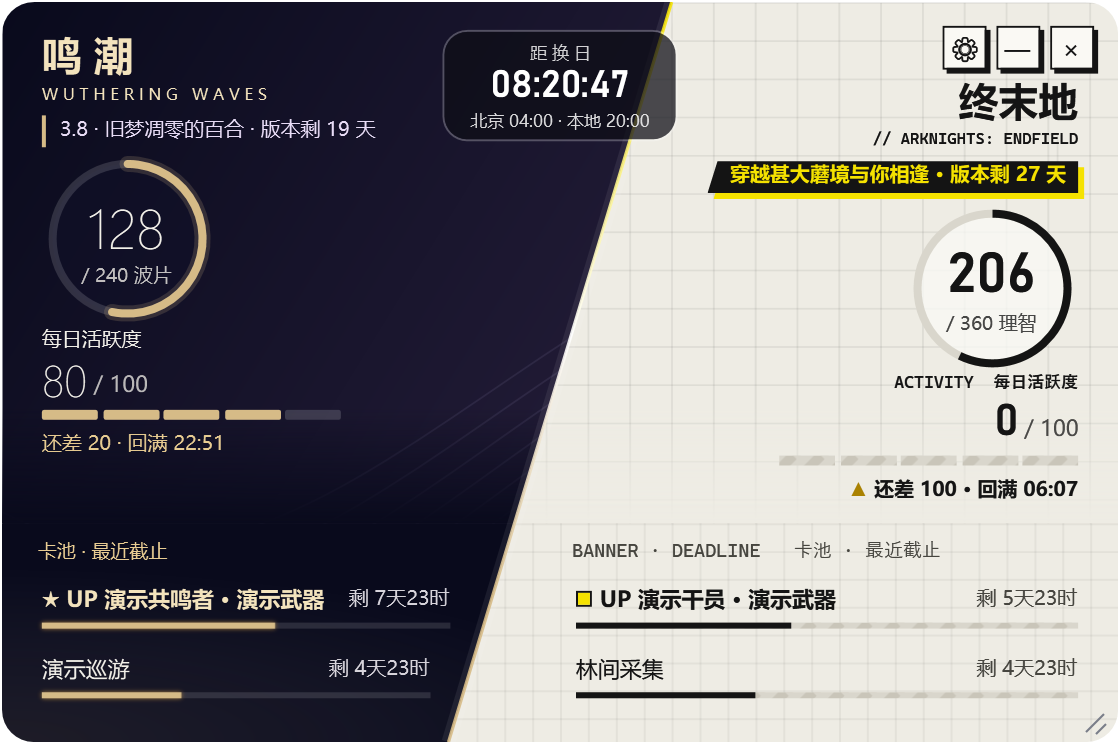
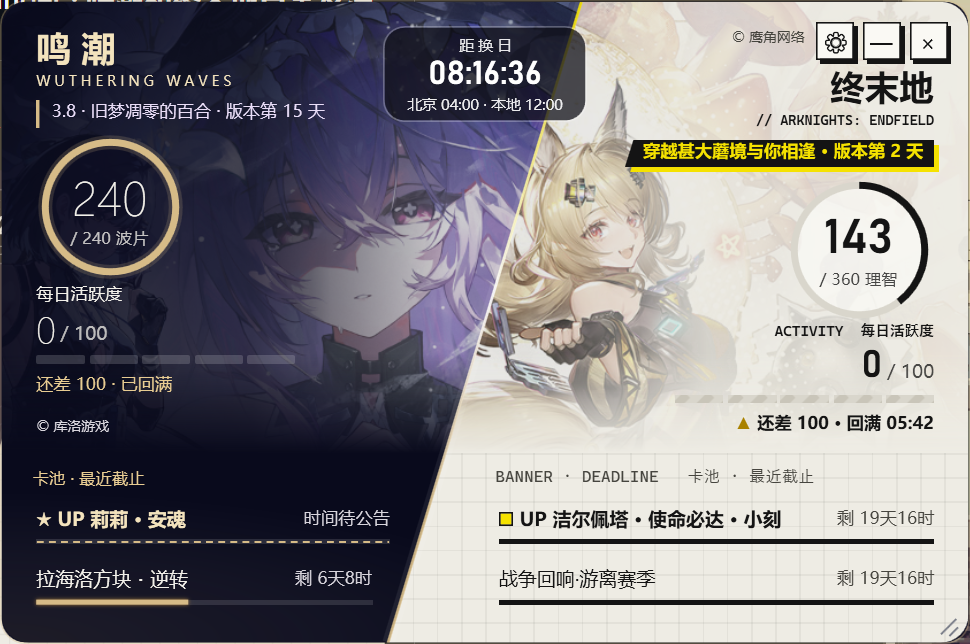
Link the Windows portable download and update the overview screenshot

diff --git a/README.en.md b/README.en.md
@@ -2,11 +2,15 @@
 
 [简体中文](README.md) · **English**
 
+**[Download the Windows x64 portable app (v1.6.2, ZIP)](https://github.com/KIRIKOMEOW/wuwa-endfield-daily-reminder/releases/download/v1.6.2/Wuwa-Endfield-Daily-Reminder-v1.6.2-win-x64.zip)**
+
+Extract the entire ZIP, then double-click `GameDailyWidget.exe` in the extracted folder. The .NET runtime is included.
+
 A Windows desktop widget for Wuthering Waves and Arknights: Endfield. The split overview shows Waveplates, Sanity, daily activity and the next event deadline for each game.
 
 ![Split overview with Waveplates and daily activity on the left, Sanity and daily activity on the right, and banner and event countdowns below.](docs/overview.png)
 
-*The v1.6.2 interface with its built-in backgrounds and demo data. The widget UI is in Chinese.*
+*The v1.6.2 split overview. The widget UI is in Chinese.*
 
 ## Using the widget
 

diff --git a/README.md b/README.md
@@ -2,11 +2,15 @@
 
 **简体中文** · [English](README.en.md)
 
+**[下载 Windows x64 便携版（v1.6.2，ZIP）](https://github.com/KIRIKOMEOW/wuwa-endfield-daily-reminder/releases/download/v1.6.2/Wuwa-Endfield-Daily-Reminder-v1.6.2-win-x64.zip)**
+
+完整解压 ZIP，双击文件夹中的 `GameDailyWidget.exe` 即可启动。便携包已包含 .NET 运行时。
+
 一个常驻 Windows 桌面的双游戏组件。在「双生」总览里，一眼看清鸣潮的波片、终末地的理智、两边今天还差多少活跃度，以及哪项活动最先截止。
 
 ![双生总览：左侧显示鸣潮波片与活跃度，右侧显示终末地理智与活跃度，底部列出卡池和活动倒计时。](docs/overview.png)
 
-*v1.6.2 实际界面，使用内置底纹和演示数据。*
+*v1.6.2「双生」总览。*
 
 ## 日常使用
 
